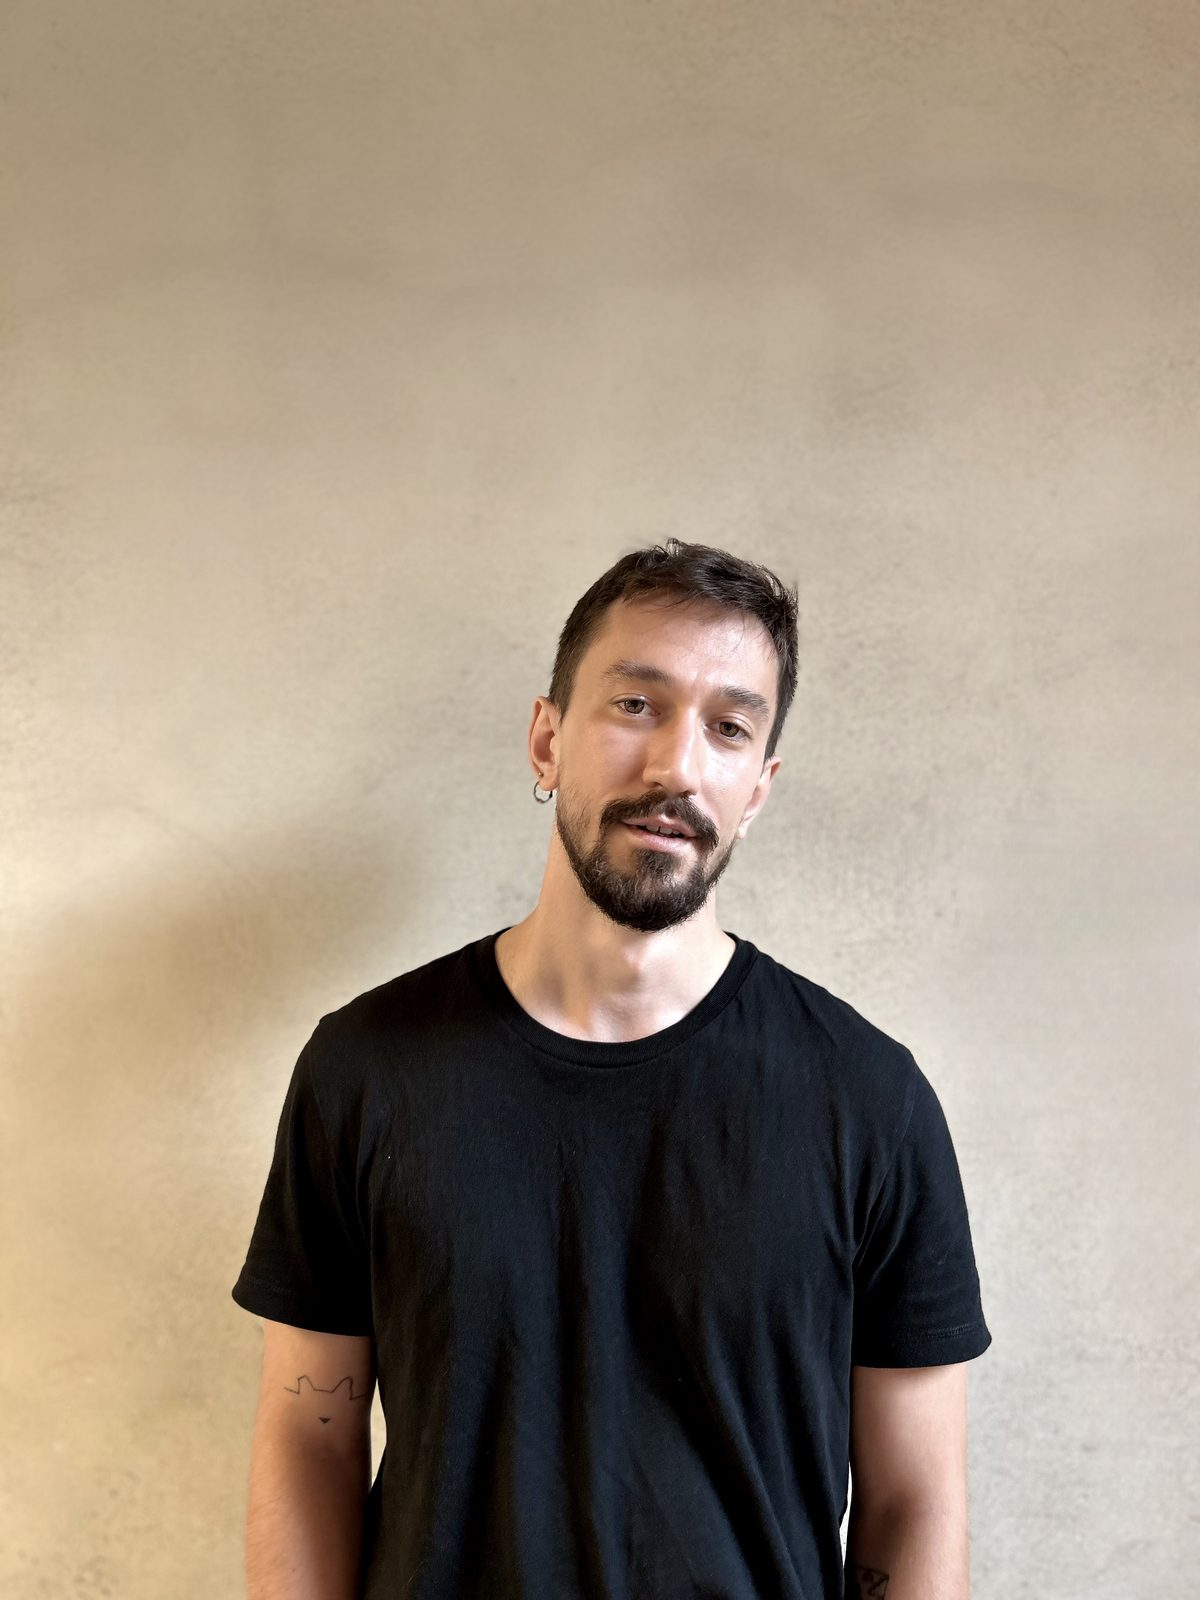
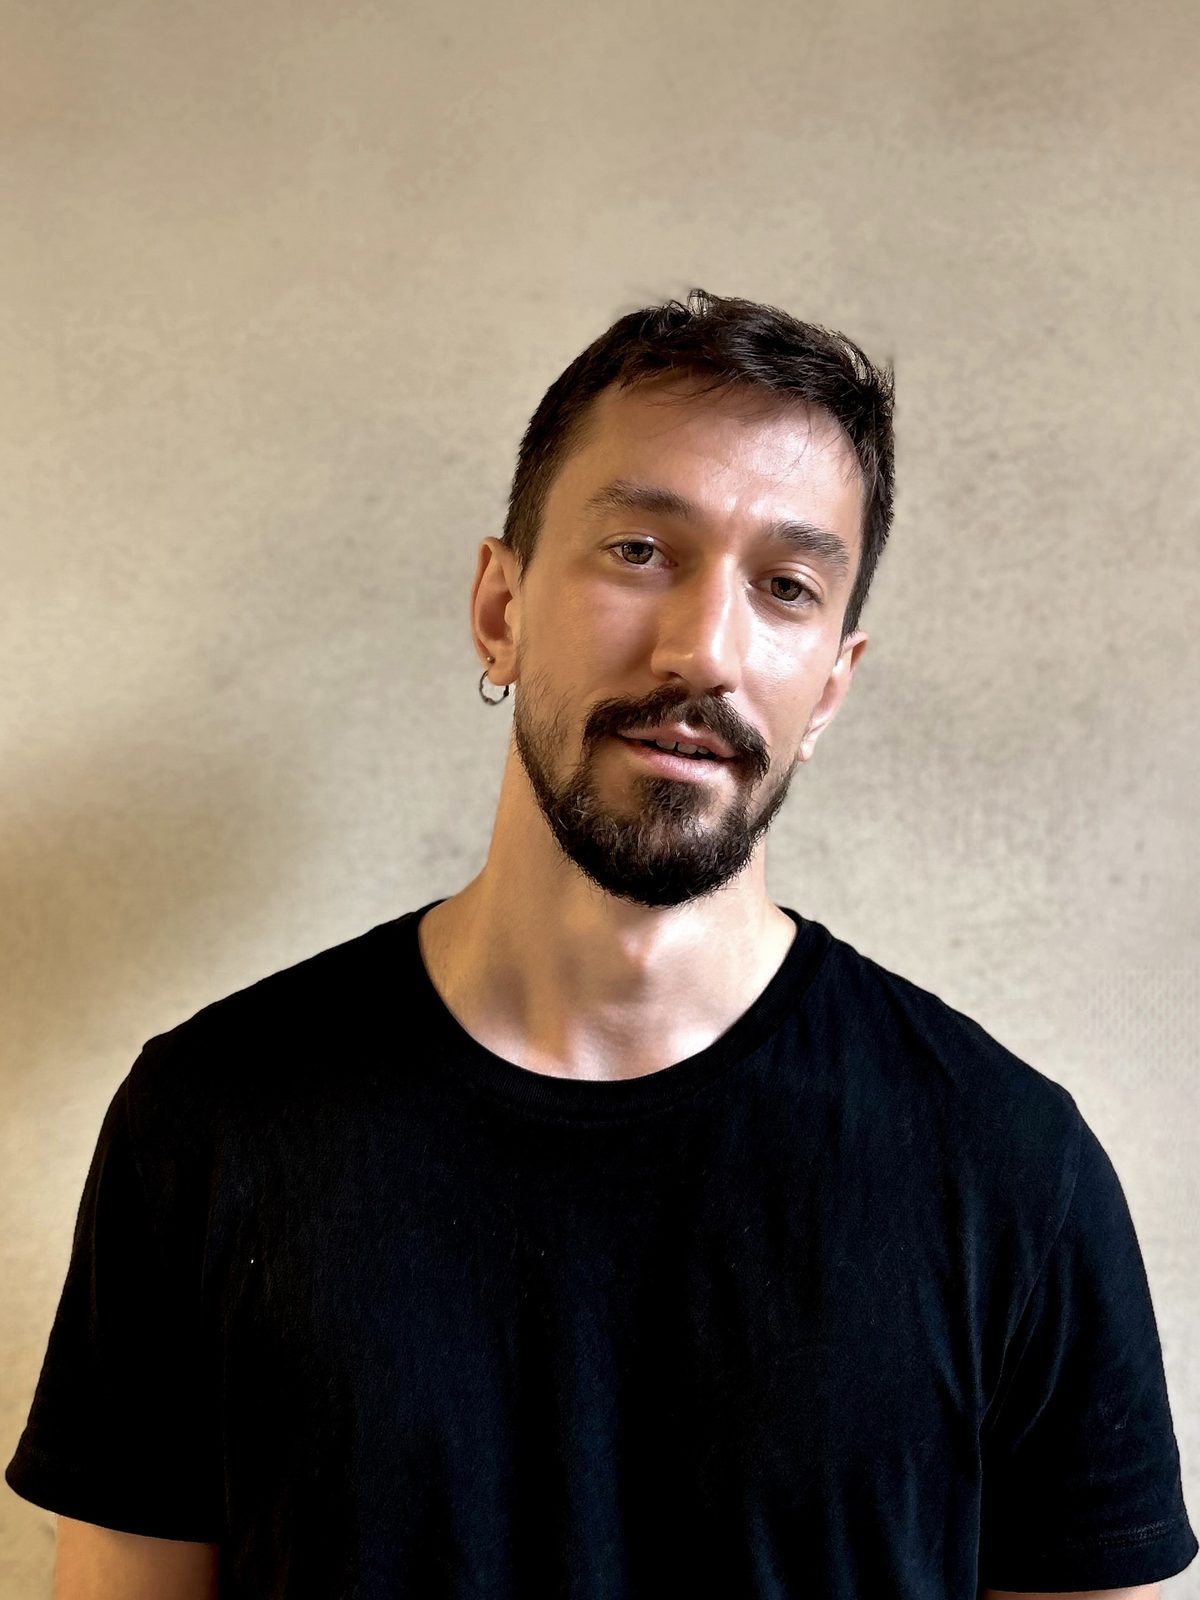
Add files via upload

diff --git a/contact/index.html b/contact/index.html
@@ -10,7 +10,7 @@
 <link rel="preconnect" href="https://fonts.googleapis.com">
 <link rel="preconnect" href="https://fonts.gstatic.com" crossorigin>
 <link rel="stylesheet" href="https://fonts.googleapis.com/css2?family=Archivo:wght@400;500;600&display=swap">
-<link rel="stylesheet" href="/style.css?v=6">
+<link rel="stylesheet" href="/style.css?v=8">
 </head>
 <body>
 <a class="skip" href="#main">Skip to content</a>
@@ -33,7 +33,8 @@
     <div class="col">
       <h1>Contact</h1>
       <p>For concerts, collaborations, residencies, workshops or anything about the research:
-      <a href="mailto:frnlvc@gmail.com">frnlvc@gmail.com</a></p>
+      <a href="mailto:frnlvc@gmail.com">frnlvc@gmail.com</a><br>
+      <a href="tel:+393928249806">+39 392 824 9806</a></p>
     </div>
 
     <section style="margin-top:70px">
@@ -42,6 +43,9 @@
         <dt>ORCID</dt>
         <dd><a class="mono" href="https://orcid.org/0009-0007-0773-4794">0009-0007-0773-4794</a><br>
             <span class="small">the unambiguous identifier for my published work</span></dd>
+        <dt>Google Scholar</dt>
+        <dd><a href="https://scholar.google.com/citations?user=Iq05x2AAAAAJ">Ludovico Franco</a><br>
+            <span class="small">indexed publications and citations</span></dd>
         <dt>Open access</dt>
         <dd><a href="https://doi.org/10.5281/zenodo.22528122">Zenodo</a><br>
             <span class="small">where the full texts are deposited</span></dd>

diff --git a/discography/reviews/index.html b/discography/reviews/index.html
@@ -10,7 +10,7 @@
 <link rel="preconnect" href="https://fonts.googleapis.com">
 <link rel="preconnect" href="https://fonts.gstatic.com" crossorigin>
 <link rel="stylesheet" href="https://fonts.googleapis.com/css2?family=Archivo:wght@400;500;600&display=swap">
-<link rel="stylesheet" href="/style.css?v=6">
+<link rel="stylesheet" href="/style.css?v=8">
 </head>
 <body>
 <a class="skip" href="#main">Skip to content</a>
@@ -38,6 +38,15 @@
     <section style="margin-top:70px">
       <h2>Press</h2>
       <ul class="plain col">
+        <li class="row entry">
+          <span class="yr">09 / 2025</span>
+          <div>
+            <h3><a href="/press/rockerilla-541-2025-open-field.jpg"
+                   target="_blank" rel="noopener">Rockerilla</a></h3>
+            <p class="where">on <em>Open Field</em> · issue 541, in print · Mirco Salvadori</p>
+            <blockquote class="pull">“un esercizio di ascolto che si fa atto politico e forma”</blockquote>
+          </div>
+        </li>
         <li class="row entry">
           <span class="yr">08 / 2025</span>
           <div>

diff --git a/research/index.html b/research/index.html
@@ -10,7 +10,7 @@
 <link rel="preconnect" href="https://fonts.googleapis.com">
 <link rel="preconnect" href="https://fonts.gstatic.com" crossorigin>
 <link rel="stylesheet" href="https://fonts.googleapis.com/css2?family=Archivo:wght@400;500;600&display=swap">
-<link rel="stylesheet" href="/style.css?v=6">
+<link rel="stylesheet" href="/style.css?v=8">
 </head>
 <body>
 <a class="skip" href="#main">Skip to content</a>
@@ -50,6 +50,14 @@
       <p class="small">Keywords: psychogeography · field recording · collective listening ·
       urban space · improvisation</p>
     </div>
+
+    <figure class="figure-block">
+      <img src="/images/research-workshop.jpg"
+           alt="Workshop in Vicenza: a group of people seated among rows of red chairs in a
+                hall, with music stands and a double bass beside them"
+           width="1171" height="878" loading="lazy" decoding="async">
+      <figcaption>Workshop, Vicenza, 2026</figcaption>
+    </figure>
 
     <section style="margin-top:86px">
       <h2>Talks and conferences</h2>

diff --git a/style.css b/style.css
@@ -84,11 +84,8 @@ a:hover{ text-decoration-thickness:1.5px; }
   font-family:var(--sans); font-size:12.5px; font-weight:400;
   color:var(--muted); text-decoration:none;
 }
-/* punto centrale fra le voci, come nel titolo della scheda */
-.bar nav a + a::before{
-  content:"·"; display:inline-block; margin:0 .62em;
-  color:var(--faint); text-decoration:none;
-}
+/* le voci del menu sono separate solo dallo spazio */
+.bar nav a + a{ margin-left:1.5em; }
 .bar nav a:hover{ color:var(--ink); text-decoration:underline; text-underline-offset:4px; }
 .bar nav a[aria-current="page"]{ color:var(--ink); }
 
@@ -196,6 +193,9 @@ figcaption{
   font-family:var(--font); font-size:12px; color:var(--faint);
   margin-top:10px; line-height:1.5;
 }
+
+/* foto a tutta larghezza dentro una pagina di testo (usata nella Research) */
+.figure-block{ margin:72px 0 0; max-width:760px; }
 
 /* ritratto nella pagina About: colonna di sinistra, sotto il titolo */
 .portrait{ margin:30px 0 0; max-width:340px; }

diff --git a/discography/index.html b/discography/index.html
@@ -10,7 +10,7 @@
 <link rel="preconnect" href="https://fonts.googleapis.com">
 <link rel="preconnect" href="https://fonts.gstatic.com" crossorigin>
 <link rel="stylesheet" href="https://fonts.googleapis.com/css2?family=Archivo:wght@400;500;600&display=swap">
-<link rel="stylesheet" href="/style.css?v=6">
+<link rel="stylesheet" href="/style.css?v=8">
 </head>
 <body>
 <a class="skip" href="#main">Skip to content</a>
@@ -38,6 +38,7 @@
       <figure>
         <img src="/images/ludovico-franco-live.jpg" alt="Ludovico Franco playing trumpet on stage"
              width="1400" height="1750" loading="lazy" decoding="async">
+        <figcaption>Photo: Ginevra Brizioli</figcaption>
       </figure>
 
       <ul class="plain">

diff --git a/publications/index.html b/publications/index.html
@@ -10,7 +10,7 @@
 <link rel="preconnect" href="https://fonts.googleapis.com">
 <link rel="preconnect" href="https://fonts.gstatic.com" crossorigin>
 <link rel="stylesheet" href="https://fonts.googleapis.com/css2?family=Archivo:wght@400;500;600&display=swap">
-<link rel="stylesheet" href="/style.css?v=6">
+<link rel="stylesheet" href="/style.css?v=8">
 </head>
 <body>
 <a class="skip" href="#main">Skip to content</a>
@@ -32,8 +32,6 @@
   <div class="wrap">
     <div class="col">
       <h1>Publications</h1>
-      <p class="small">Everything here is deposited open access and citable by DOI. Full texts are
-      downloadable from this site.</p>
     </div>
 
     <section style="margin-top:70px">

diff --git a/about/index.html b/about/index.html
@@ -10,7 +10,7 @@
 <link rel="preconnect" href="https://fonts.googleapis.com">
 <link rel="preconnect" href="https://fonts.gstatic.com" crossorigin>
 <link rel="stylesheet" href="https://fonts.googleapis.com/css2?family=Archivo:wght@400;500;600&display=swap">
-<link rel="stylesheet" href="/style.css?v=6">
+<link rel="stylesheet" href="/style.css?v=8">
 </head>
 <body>
 <a class="skip" href="#main">Skip to content</a>

diff --git a/index.html b/index.html
@@ -10,7 +10,7 @@
 <link rel="preconnect" href="https://fonts.googleapis.com">
 <link rel="preconnect" href="https://fonts.gstatic.com" crossorigin>
 <link rel="stylesheet" href="https://fonts.googleapis.com/css2?family=Archivo:wght@400;500;600&display=swap">
-<link rel="stylesheet" href="/style.css?v=6">
+<link rel="stylesheet" href="/style.css?v=8">
 </head>
 <body>
 <a class="skip" href="#main">Skip to content</a>

diff --git a/publications/nomadic-ear/index.html b/publications/nomadic-ear/index.html
@@ -25,7 +25,7 @@
 <link rel="preconnect" href="https://fonts.googleapis.com">
 <link rel="preconnect" href="https://fonts.gstatic.com" crossorigin>
 <link rel="stylesheet" href="https://fonts.googleapis.com/css2?family=Archivo:wght@400;500;600&display=swap">
-<link rel="stylesheet" href="/style.css?v=6">
+<link rel="stylesheet" href="/style.css?v=8">
 </head>
 <body>
 <a class="skip" href="#main">Skip to content</a>
